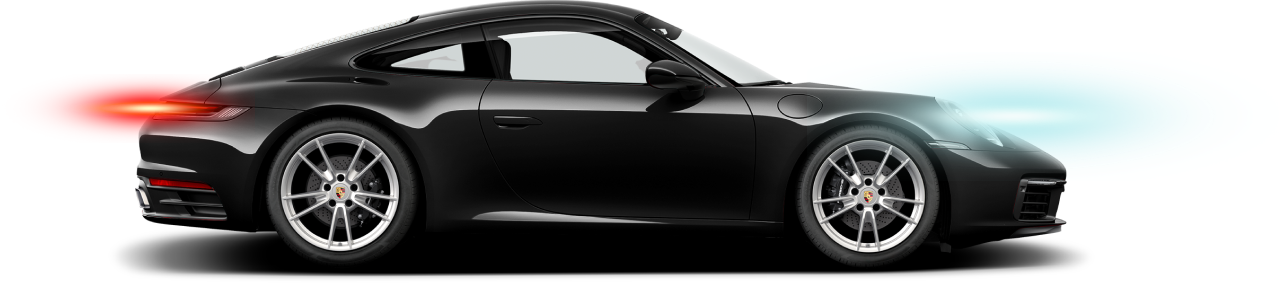
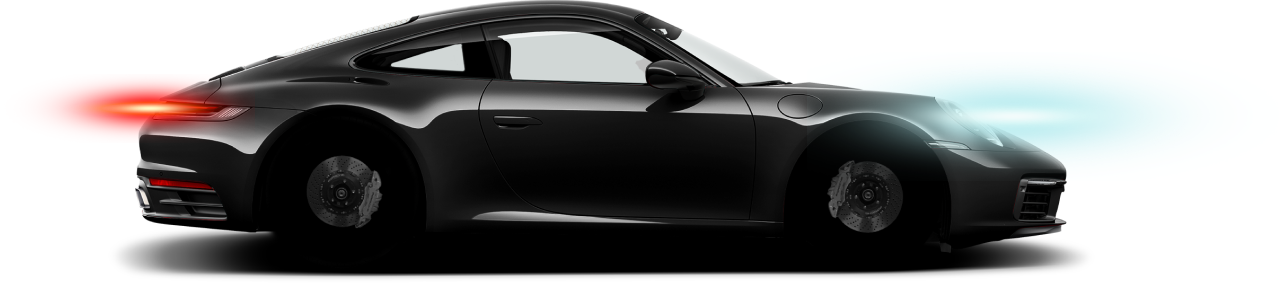
add wheels animation

Changed region(s): [[0.183, 0.3958, 0.3354, 0.9329], [0.6099, 0.424, 0.7318, 0.9329], [0.3049, 0.1979, 0.3354, 0.2544]]

diff --git a/app/css/style.css b/app/css/style.css
@@ -608,7 +608,6 @@ section h2 {
 .car__wheels {
   position: absolute;
   bottom: 0;
-  display: none !important;
 }
 
 .car__wheels .back,
@@ -633,16 +632,19 @@ section h2 {
   width: 942px;
 }
 
+.car--1 .car__wheels .back,
+.car--1 .car__wheels .front {
+  background-image: url(../img/cars-wheel-1.png);
+}
+
 .car--1 .car__wheels .back {
   left: 265px;
   bottom: 16px;
-  background-image: url(../img/cars-car-1-back.png);
 }
 
 .car--1 .car__wheels .front {
   right: 0;
   bottom: 9px;
-  background-image: url(../img/cars-car-1-front.png);
 }
 
 .car--2 .car__wheels {
@@ -650,17 +652,20 @@ section h2 {
   width: 949px;
 }
 
+.car--2 .car__wheels .back,
+.car--2 .car__wheels .front {
+  background-image: url(../img/cars-wheel-2.png);
+}
+
 .car--2 .car__wheels .back {
   left: 265px;
   bottom: 16px;
-  background-image: url(../img/cars-car-2-back.png);
   animation-direction: reverse !important;
 }
 
 .car--2 .car__wheels .front {
   right: 0;
   bottom: 9px;
-  background-image: url(../img/cars-car-2-front.png);
   animation-direction: reverse !important;
 }
 
@@ -676,8 +681,8 @@ section h2 {
     transform: rotate(0);
   }
   100% {
-    -webkit-transform: rotate(40deg);
-    transform: rotate(40deg);
+    -webkit-transform: rotate(35deg);
+    transform: rotate(35deg);
   }
 }
 
@@ -687,8 +692,30 @@ section h2 {
     transform: rotate(0);
   }
   100% {
-    -webkit-transform: rotate(40deg);
-    transform: rotate(40deg);
+    -webkit-transform: rotate(35deg);
+    transform: rotate(35deg);
+  }
+}
+
+@-webkit-keyframes rotate-center-mobile {
+  0% {
+    -webkit-transform: rotate(0);
+    transform: rotate(0);
+  }
+  100% {
+    -webkit-transform: rotate(80deg);
+    transform: rotate(80deg);
+  }
+}
+
+@keyframes rotate-center-mobile {
+  0% {
+    -webkit-transform: rotate(0);
+    transform: rotate(0);
+  }
+  100% {
+    -webkit-transform: rotate(80deg);
+    transform: rotate(80deg);
   }
 }
 
@@ -1892,6 +1919,11 @@ section h2 {
   .car--2 .car__wheels .back {
     left: 116px;
     bottom: 2px;
+  }
+  .car.active .car__wheels .back,
+  .car.active .car__wheels .front {
+    -webkit-animation-name: rotate-center-mobile;
+    animation-name: rotate-center-mobile;
   }
   .btn {
     width: 100%;

diff --git a/sass/_cars.sass b/sass/_cars.sass
@@ -118,7 +118,6 @@
     &__wheels
         position: absolute
         bottom: 0
-        display: none !important
         .back,
         .front
             width: 150px
@@ -136,27 +135,29 @@
         .car__wheels
             left: 0
             width: 942px
+            .back,
+            .front
+                background-image: url(../img/cars-wheel-1.png)
             .back
                 left: 265px
                 bottom: 16px
-                background-image: url(../img/cars-car-1-back.png)
             .front
                 right: 0
                 bottom: 9px
-                background-image: url(../img/cars-car-1-front.png)
     &--2
         .car__wheels
             left: 107px
             width: 949px
+            .back,
+            .front
+                background-image: url(../img/cars-wheel-2.png)
             .back
                 left: 265px
                 bottom: 16px
-                background-image: url(../img/cars-car-2-back.png)
                 animation-direction: reverse !important
             .front
                 right: 0
                 bottom: 9px
-                background-image: url(../img/cars-car-2-front.png)
                 animation-direction: reverse !important
     &.active
         .car__wheels
@@ -168,4 +169,10 @@
     0%
         transform: rotate(0)
     100%
-        transform: rotate(40deg)
+        transform: rotate(35deg)
+
+@keyframes rotate-center-mobile
+    0%
+        transform: rotate(0)
+    100%
+        transform: rotate(80deg)

diff --git a/sass/_media.sass b/sass/_media.sass
@@ -422,6 +422,11 @@ $font3: 'DINPro-Regular', sans-serif
 					.back
 						left: 116px
 						bottom: 2px
+		&.active
+			.car__wheels
+				.back,
+				.front
+					animation-name: rotate-center-mobile
 
 	.btn
 		width: 100%
